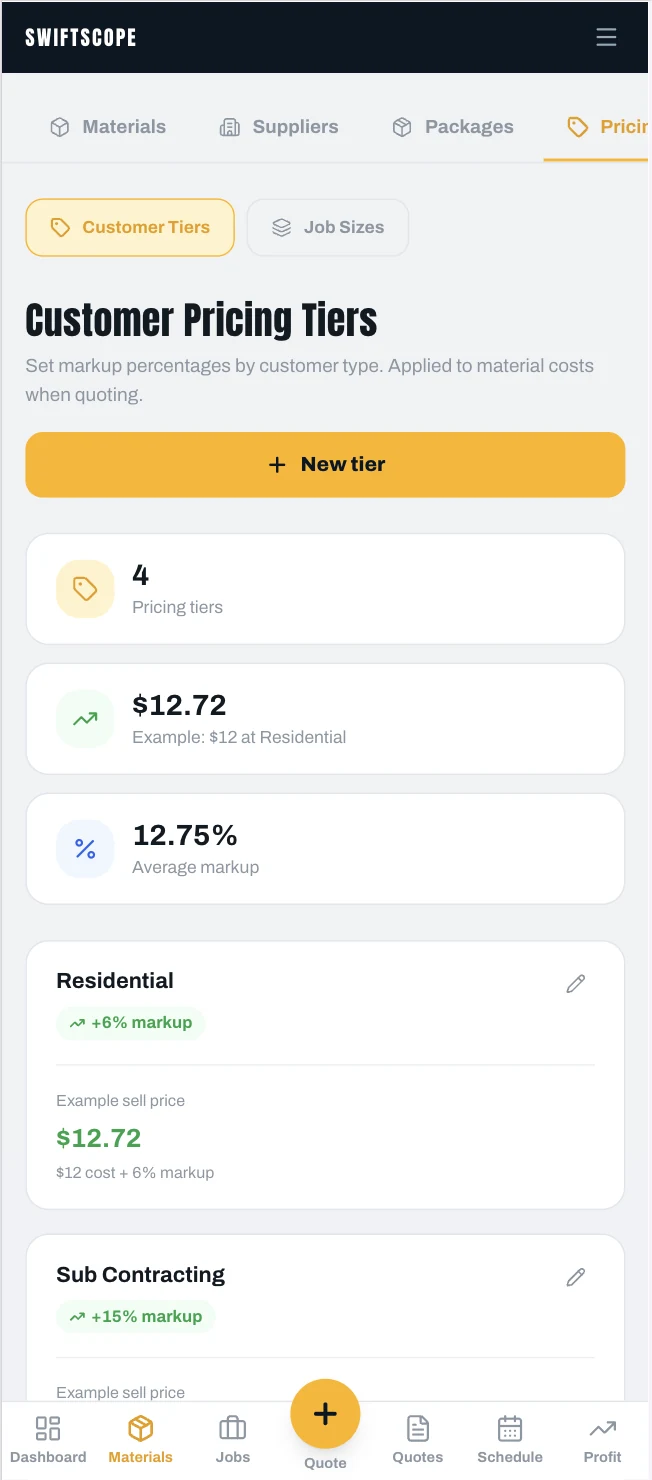
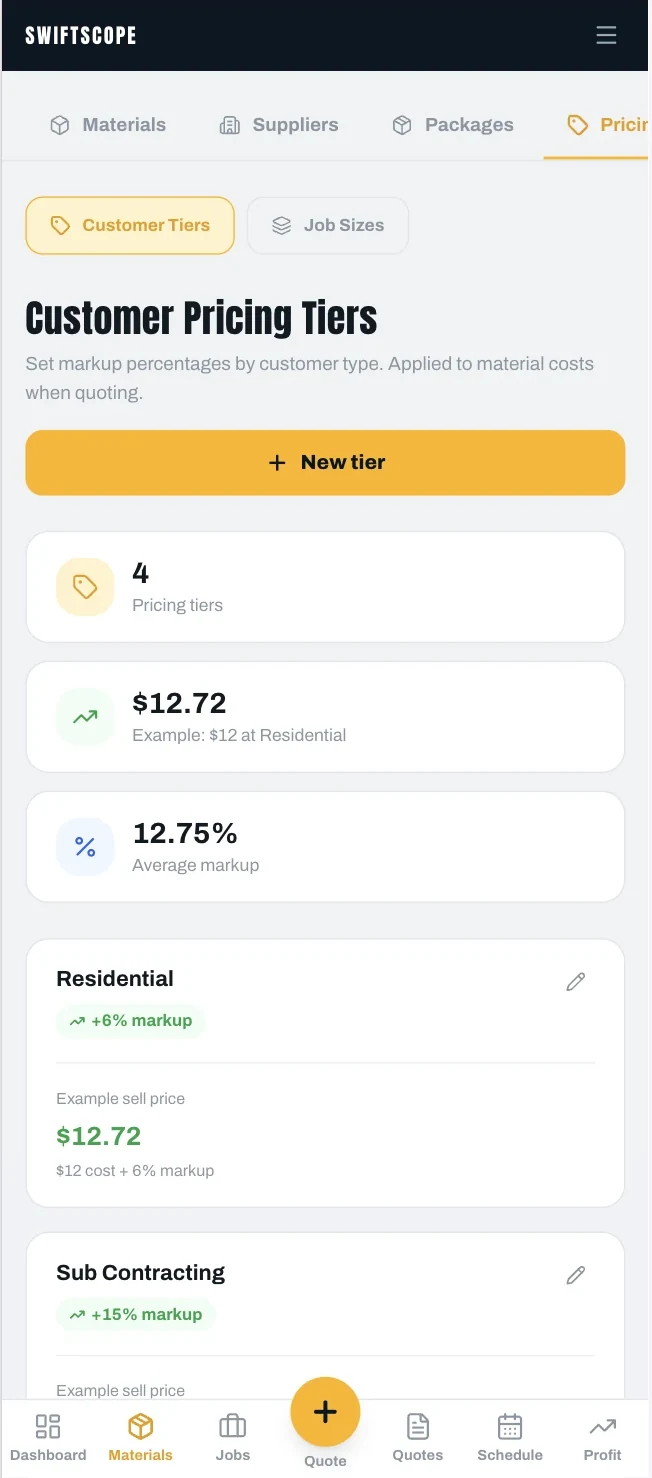
Fix the phone frames: trim capture tops, give the bezel an edge
Two faults, both visible in the attached crops.

Stray rows at the top of the captures. They were taken mid-scroll, so
most carry a hairline of the row above and a few carry more: dashboard
had the cut-off bottoms of the payment figures sitting on white,
quote-send a 6px grey band. None of it mattered while the frame cropped
from the centre. Anchoring to the top pressed it against the bezel,
where it reads as a rendering fault rather than as a screenshot. Every
capture now starts on the first clean row of the app header.

Finding that row needs the dark run to hold for 15 rows. Testing a
single row matches an anti-aliased transition or a line of dark text on
a light background and trims to the wrong place, which is how the first
attempt left the dashboard still ghosting.

The bezel had no edge on dark sections. It was painted #0a1722, which is
both the section background and the colour of the app's own header bar,
so the top third of every shot was one undifferentiated navy mass and
the phone had no outline. It is now a lighter navy against a stronger
ring.

Radii are concentric too: inner equals outer minus padding at each
breakpoint. They were 24 outer against 17 inner over a 6px pad on
mobile, which is the kind of mismatch that makes a frame read as a div
with a border instead of a device.

Declared dimensions in the registry refreshed to match the trimmed
files.

Verified: npx tsc --noEmit clean, next build compiles.

diff --git a/lib/marketing/screenshots.ts b/lib/marketing/screenshots.ts
@@ -88,7 +88,7 @@ export const SHOTS = {
     alt: "Swiftscope send step listing on-site items pulled from a package with quantities and prices, a site items total of $1,181, and a job description field with a record option",
     caption: "Priced, itemised and ready to send, with the job description talked in if you prefer.",
     width: 714,
-    height: 1480,
+    height: 1474,
   },
   packages: {
     src: "/product/packages.webp",
@@ -102,7 +102,7 @@ export const SHOTS = {
     alt: "A sent Swiftscope quote for $829 showing scope and cost, the site conditions considered, labour and materials split, accept and decline actions, and a follow-up overdue by three days",
     caption: "What the client sees, plus a nudge when the follow-up is overdue.",
     width: 712,
-    height: 1480,
+    height: 1478,
   },
   settingsSiteConditions: {
     src: "/product/settings-site-conditions.webp",
@@ -123,7 +123,7 @@ export const SHOTS = {
     alt: "Customer pricing tiers screen showing four tiers including residential at six percent markup and sub contracting at fifteen percent",
     caption: "A markup per customer type, so builder work is not priced like a homeowner.",
     width: 652,
-    height: 1480,
+    height: 1478,
   },
   jobSizeTiers: {
     src: "/product/job-size-tiers.webp",
@@ -137,7 +137,7 @@ export const SHOTS = {
     alt: "Swiftscope job screen showing progress from scheduled to invoiced, tasks, dayworks dockets and a timeline of the quote being accepted and paid",
     caption: "Scheduled, in progress, complete, invoiced, with the whole history underneath.",
     width: 654,
-    height: 1476,
+    height: 1475,
   },
   docketEntry: {
     src: "/product/docket-entry.webp",
@@ -158,7 +158,7 @@ export const SHOTS = {
     alt: "Dayworks rates screen listing a full day and half day labour rate and an excavator plant rate",
     caption: "Your usual day rates saved once, picked from a list on every docket.",
     width: 646,
-    height: 1480,
+    height: 1478,
   },
   xeroExport: {
     src: "/product/xero-export.webp",
@@ -172,7 +172,7 @@ export const SHOTS = {
     alt: "Swiftscope dashboard showing a quote pipeline of draft, sent, accepted, declined and paid quotes, a profit snapshot and time saved on quoting",
     caption: "What is out, what came back, and what it actually made you.",
     width: 654,
-    height: 1484,
+    height: 1481,
   },
   team: {
     src: "/product/team.webp",

diff --git a/components/marketing/PhoneShot.tsx b/components/marketing/PhoneShot.tsx
@@ -52,17 +52,24 @@ export default function PhoneShot({
   priority?: boolean;
   sizes?: string;
 }) {
+  // The dark bezel is deliberately lighter than the section it sits on.
+  // Painting it #0a1722 matched both the section background and the app's
+  // own header bar, so the top third of every shot was one undifferentiated
+  // navy mass with no phone edge in it at all.
   const bezel =
     tone === "dark"
-      ? "bg-[#0a1722] ring-1 ring-white/10"
-      : "bg-white ring-1 ring-[#e8ecef] shadow-[0_10px_30px_rgba(10,23,34,0.08)]";
+      ? "bg-[#22364a] ring-1 ring-white/15"
+      : "bg-white ring-1 ring-[#dfe5ea] shadow-[0_10px_30px_rgba(10,23,34,0.10)]";
   const captionColour = tone === "dark" ? "text-[#8aa4b4]" : "text-[#5a6a78]";
 
   return (
     <figure className="w-full">
-      <div className={`rounded-[24px] p-1.5 sm:p-2 ${bezel}`}>
+      {/* Radii are concentric: inner = outer minus padding, at each
+          breakpoint. Mismatched radii are what make a frame read as a div
+          with a border rather than as a device. */}
+      <div className={`rounded-[22px] p-1.5 sm:rounded-[26px] sm:p-2 ${bezel}`}>
         <div
-          className="relative w-full overflow-hidden rounded-[17px] bg-[#f8f9fa]"
+          className="relative w-full overflow-hidden rounded-[16px] sm:rounded-[18px] bg-[#f8f9fa] ring-1 ring-black/5"
           style={{ aspectRatio: FRAME }}
         >
           <Image
